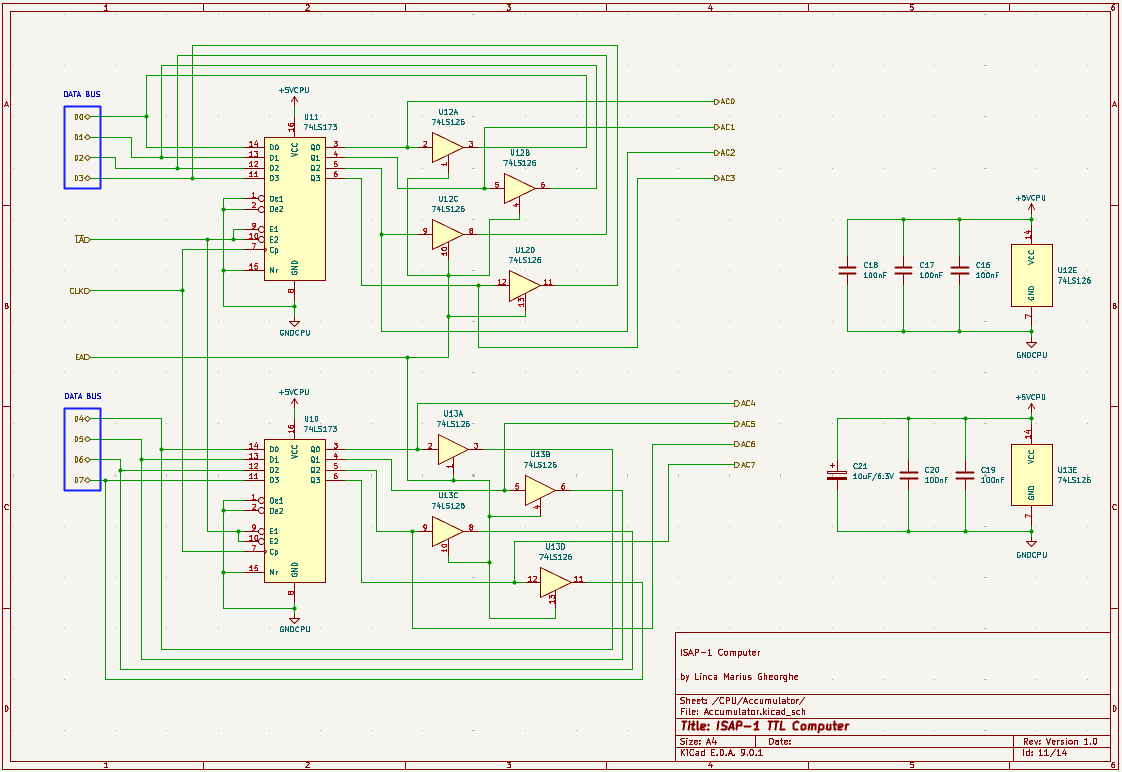
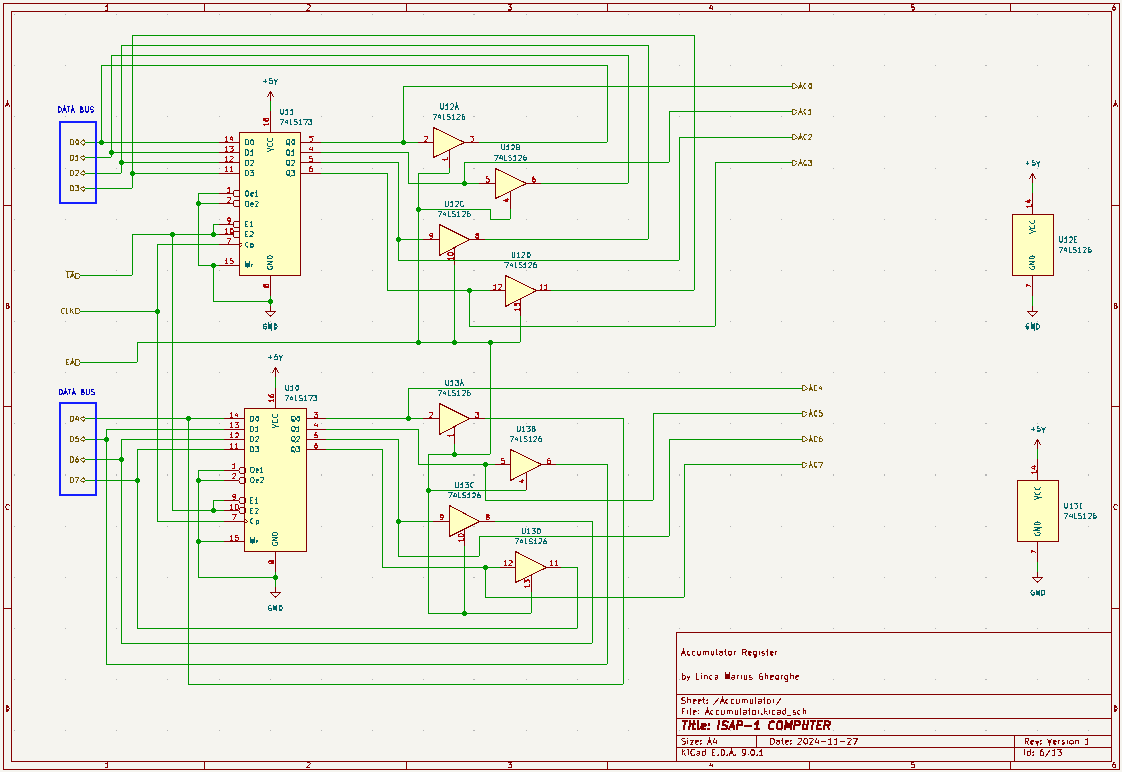
modified:   Pictures/Figure10.png

diff --git a/README.md b/README.md
@@ -143,8 +143,6 @@ As in the previous cases, the order of inputs and outputs is reversed from the o
 
 I connected the chip pins to the bus in the order given in the catalog sheets
 
-I added 100nF decoupling capacitors for each integrated circuit used and a 10uF filter capacitor.
-
 The schematic does not present any other changes compared to the original one.
 
 ![ Figure 10 ](/Pictures/Figure10.png)
